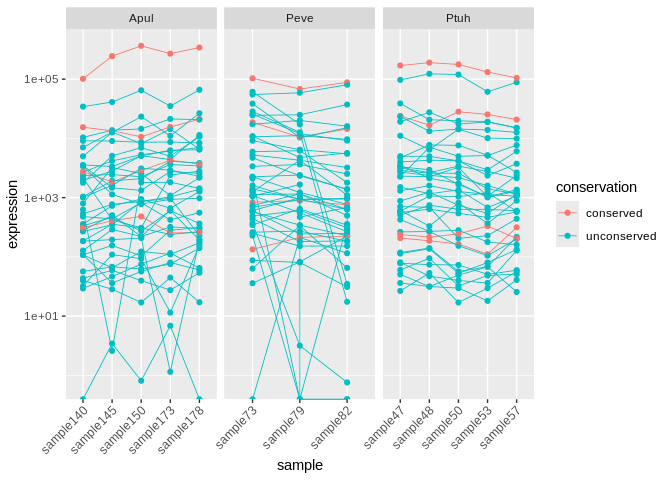
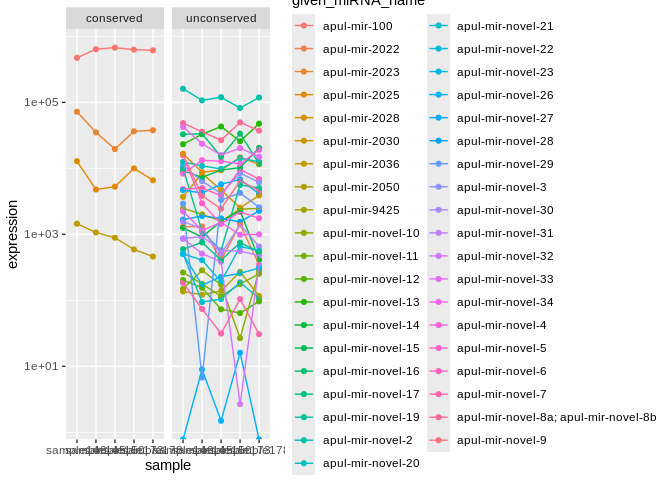
update expression summary to CPM units

diff --git a/M-multi-species/code/04.1-miRNA-comparison-expression.md b/M-multi-species/code/04.1-miRNA-comparison-expression.md
@@ -28,39 +28,35 @@ library(dplyr)
 library(tidyr)
 library(ggplot2)
 library(stringr)
+library(edgeR)
 ```
+
+    ## Loading required package: limma
 
 Load and format counts files
 
-``` r
-# # mature miRNA count matrices
-# Apul_mature <- read.table("../../D-Apul/output/03.1-Apul-sRNA-summary/Apul_miRNA_ShortStack_counts_formatted.txt")
-# Apul_mature$mean <- rowMeans(Apul_mature) # Average expression across samples
-# Apul_mature$miRNA <- rownames(Apul_mature)
-# Apul_mature$Species <- "Apul"
-# 
-# Peve_mature <- read.table("../../E-Peve/output/03.1-Peve-sRNA-summary/Peve_miRNA_ShortStack_counts_formatted.txt")
-# Peve_mature$mean <- rowMeans(Peve_mature) # Average expression across samples
-# Peve_mature$miRNA <- rownames(Peve_mature)
-# Peve_mature$Species <- "Peve"
-# 
-# Ptuh_mature <- read.table("../../F-Ptuh/output/03.1-Ptuh-sRNA-summary/Ptuh_miRNA_ShortStack_counts_formatted.txt")
-# Ptuh_mature$mean <- rowMeans(Ptuh_mature) # Average expression across samples
-# Ptuh_mature$miRNA <- rownames(Ptuh_mature)
-# Ptuh_mature$Species <- "Ptuh"
+Note: will be normalizing using CPM (counts per million, normalized for
+library size) to describe expression level in miRNA. We don’t use TPM
+(transcripts per milion), which is normalized for both transcript length
+and library size, for miRNA because they are, by definition, all the
+same size (\~22nt)
 
+``` r
 # mature miRNA count matrices
-Apul_mature <- read.table("../../D-Apul/output/03.1-Apul-sRNA-summary/Apul_counts_miRNA_normalized.txt")
+Apul_mature <- read.table("../../D-Apul/output/03.1-Apul-sRNA-summary/Apul_miRNA_ShortStack_counts_formatted.txt")
+Apul_mature <- data.frame(cpm(Apul_mature)) # CPM normalization
 Apul_mature$mean <- rowMeans(Apul_mature) # Average expression across samples
 Apul_mature$miRNA <- rownames(Apul_mature)
 Apul_mature$species <- "Apul"
 
-Peve_mature <- read.table("../../E-Peve/output/03.1-Peve-sRNA-summary/Peve_counts_miRNA_normalized.txt")
+Peve_mature <- read.table("../../E-Peve/output/03.1-Peve-sRNA-summary/Peve_miRNA_ShortStack_counts_formatted.txt")
+Peve_mature <- data.frame(cpm(Peve_mature)) # CPM normalization
 Peve_mature$mean <- rowMeans(Peve_mature) # Average expression across samples
 Peve_mature$miRNA <- rownames(Peve_mature)
 Peve_mature$species <- "Peve"
 
-Ptuh_mature <- read.table("../../F-Ptuh/output/03.1-Ptuh-sRNA-summary/Ptuh_counts_miRNA_normalized.txt")
+Ptuh_mature <- read.table("../../F-Ptuh/output/03.1-Ptuh-sRNA-summary/Ptuh_miRNA_ShortStack_counts_formatted.txt")
+Ptuh_mature <- data.frame(cpm(Ptuh_mature)) # CPM normalization
 Ptuh_mature$mean <- rowMeans(Ptuh_mature) # Average expression across samples
 Ptuh_mature$miRNA <- rownames(Ptuh_mature)
 Ptuh_mature$species <- "Ptuh"
@@ -104,19 +100,49 @@ Peve_mature_df$conservation <- ifelse(Peve_mature_df$given_miRNA_name %in% Peve_
 Ptuh_mature_df$conservation <- ifelse(Ptuh_mature_df$given_miRNA_name %in% Ptuh_mature_conserved$given_miRNA_name, "conserved", "unconserved")
 ```
 
-Expression summary stats:
+Expression summary stats (already normalized using CPM):
 
 ``` r
-cat("Mean expression of conserved miRNA in A.pulchra, P.evermanni, and P.tuahiniensis:  ")
-```
+Apul_mature_counts <- as.matrix(Apul_mature[,1:5])
+Peve_mature_counts <- as.matrix(Peve_mature[,1:3])
+Ptuh_mature_counts <- as.matrix(Ptuh_mature[,1:5])
 
-    ## Mean expression of conserved miRNA in A.pulchra, P.evermanni, and P.tuahiniensis:
+Apul_mature_conserved_counts <- as.matrix(Apul_mature_conserved[,1:5])
+Peve_mature_conserved_counts <- as.matrix(Peve_mature_conserved[,1:3])
+Ptuh_mature_conserved_counts <- as.matrix(Ptuh_mature_conserved[,1:5])
+
+Apul_mature_unconserved_counts <- as.matrix(Apul_mature_unconserved[,1:5])
+Peve_mature_unconserved_counts <- as.matrix(Peve_mature_unconserved[,1:3])
+Ptuh_mature_unconserved_counts <- as.matrix(Ptuh_mature_unconserved[,1:5])
+```
 
 ``` r
-cat(mean(Apul_mature_conserved$mean), ", ", mean(Peve_mature_conserved$mean), ", ", mean(Ptuh_mature_conserved$mean))
+cat("Mean expression of all miRNA in A.pulchra, P.evermanni, and P.tuahiniensis:  ")
 ```
 
-    ## 70945.3 ,  25576.85 ,  44592.78
+    ## Mean expression of all miRNA in A.pulchra, P.evermanni, and P.tuahiniensis:
+
+``` r
+cat(mean(Apul_mature_counts), ", ", mean(Peve_mature_counts), ", ", mean(Ptuh_mature_counts))
+```
+
+    ## 25641.03 ,  22222.22 ,  27027.03
+
+``` r
+cat("\n")
+```
+
+``` r
+cat("Median expression of all miRNA in A.pulchra, P.evermanni, and P.tuahiniensis:  ")
+```
+
+    ## Median expression of all miRNA in A.pulchra, P.evermanni, and P.tuahiniensis:
+
+``` r
+cat(median(Apul_mature_counts), ", ", median(Peve_mature_counts), ", ", median(Ptuh_mature_counts))
+```
+
+    ## 2283.515 ,  2826.546 ,  3113.229
 
 ``` r
 cat("\n")
@@ -127,16 +153,68 @@ cat("\n")
 ```
 
 ``` r
-cat("Mean expression of unconserved miRNA in A.pulchra, P.evermanni, and P.tuahiniensis:  ")
+cat("Mean expression of *conserved* miRNA in A.pulchra, P.evermanni, and P.tuahiniensis:  ")
 ```
 
-    ## Mean expression of unconserved miRNA in A.pulchra, P.evermanni, and P.tuahiniensis:
+    ## Mean expression of *conserved* miRNA in A.pulchra, P.evermanni, and P.tuahiniensis:
 
 ``` r
-cat(mean(Apul_mature_unconserved$mean), ", ", mean(Peve_mature_unconserved$mean), ", ", mean(Ptuh_mature_unconserved$mean))
+cat(mean(Apul_mature_conserved_counts), ", ", mean(Peve_mature_conserved_counts), ", ", mean(Ptuh_mature_conserved_counts))
 ```
 
-    ## 4024.01 ,  5994.475 ,  6252.541
+    ## 164135.2 ,  74128.47 ,  115772.9
+
+``` r
+cat("\n")
+```
+
+``` r
+cat("Median expression of *conserved* miRNA in A.pulchra, P.evermanni, and P.tuahiniensis:  ")
+```
+
+    ## Median expression of *conserved* miRNA in A.pulchra, P.evermanni, and P.tuahiniensis:
+
+``` r
+cat(median(Apul_mature_conserved_counts), ", ", median(Peve_mature_conserved_counts), ", ", median(Ptuh_mature_conserved_counts))
+```
+
+    ## 16255.45 ,  19277.82 ,  19267.58
+
+``` r
+cat("\n")
+```
+
+``` r
+cat("\n")
+```
+
+``` r
+cat("Mean expression of *unconserved* miRNA in A.pulchra, P.evermanni, and P.tuahiniensis:  ")
+```
+
+    ## Mean expression of *unconserved* miRNA in A.pulchra, P.evermanni, and P.tuahiniensis:
+
+``` r
+cat(mean(Apul_mature_unconserved_counts), ", ", mean(Peve_mature_unconserved_counts), ", ", mean(Ptuh_mature_unconserved_counts))
+```
+
+    ## 9813.123 ,  17158.2 ,  16269.95
+
+``` r
+cat("\n")
+```
+
+``` r
+cat("Median expression of *unconserved* miRNA in A.pulchra, P.evermanni, and P.tuahiniensis:  ")
+```
+
+    ## Median expression of *unconserved* miRNA in A.pulchra, P.evermanni, and P.tuahiniensis:
+
+``` r
+cat(median(Apul_mature_unconserved_counts), ", ", median(Peve_mature_unconserved_counts), ", ", median(Ptuh_mature_unconserved_counts))
+```
+
+    ## 1901.624 ,  2545.083 ,  3113.229
 
 Plot
 
@@ -161,7 +239,7 @@ ggplot(Apul_mature_long, aes(x=sample, y=expression, group=given_miRNA_name, col
     ## Warning in scale_y_log10(): log-10 transformation introduced infinite values.
     ## log-10 transformation introduced infinite values.
 
-![](04.1-miRNA-comparison-expression_files/figure-gfm/unnamed-chunk-7-1.png)<!-- -->
+![](04.1-miRNA-comparison-expression_files/figure-gfm/unnamed-chunk-8-1.png)<!-- -->
 
 ``` r
 ### Peve ###
@@ -184,7 +262,7 @@ ggplot(Peve_mature_long, aes(x=sample, y=expression, group=given_miRNA_name, col
     ## Warning in scale_y_log10(): log-10 transformation introduced infinite values.
     ## log-10 transformation introduced infinite values.
 
-![](04.1-miRNA-comparison-expression_files/figure-gfm/unnamed-chunk-7-2.png)<!-- -->
+![](04.1-miRNA-comparison-expression_files/figure-gfm/unnamed-chunk-8-2.png)<!-- -->
 
 ``` r
 ### Ptuh ###
@@ -204,7 +282,7 @@ ggplot(Ptuh_mature_long, aes(x=sample, y=expression, group=given_miRNA_name, col
   facet_wrap(~conservation)
 ```
 
-![](04.1-miRNA-comparison-expression_files/figure-gfm/unnamed-chunk-7-3.png)<!-- -->
+![](04.1-miRNA-comparison-expression_files/figure-gfm/unnamed-chunk-8-3.png)<!-- -->
 
 ``` r
 all_long <- rbind(Apul_mature_long, 
@@ -228,7 +306,7 @@ ggplot(all_long, aes(x=sample, y=expression, group=given_miRNA_name, color=conse
     ## Warning in scale_y_log10(): log-10 transformation introduced infinite values.
     ## log-10 transformation introduced infinite values.
 
-![](04.1-miRNA-comparison-expression_files/figure-gfm/unnamed-chunk-8-1.png)<!-- -->
+![](04.1-miRNA-comparison-expression_files/figure-gfm/unnamed-chunk-9-1.png)<!-- -->
 
 ``` r
 all_conserved_long <- rbind(Apul_mature_long[Apul_mature_long$conservation == "conserved",], 
@@ -247,7 +325,7 @@ ggplot(all_conserved_long, aes(x=sample, y=expression, group=given_miRNA_name, c
   theme(axis.text.x = element_text(angle=45, hjust=1))
 ```
 
-![](04.1-miRNA-comparison-expression_files/figure-gfm/unnamed-chunk-9-1.png)<!-- -->
+![](04.1-miRNA-comparison-expression_files/figure-gfm/unnamed-chunk-10-1.png)<!-- -->
 
 ``` r
 ### Apul ###
@@ -302,5 +380,3 @@ wilcox.test(x=Ptuh_conserved_sampleMeans, y=Ptuh_unconserved_sampleMeans, paired
     ## data:  Ptuh_conserved_sampleMeans and Ptuh_unconserved_sampleMeans
     ## V = 15, p-value = 0.0625
     ## alternative hypothesis: true location shift is not equal to 0
-
-Notes: should I be doing this with normalized counts instead of raw?
